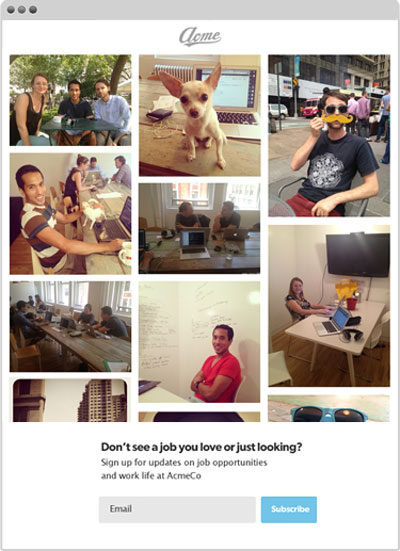
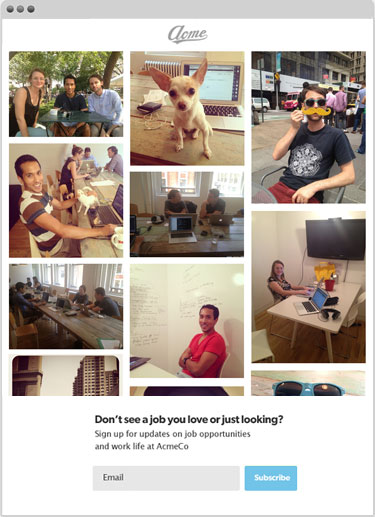
homepage finishing touches

diff --git a/app/assets/stylesheets/home.css.less b/app/assets/stylesheets/home.css.less
@@ -6,7 +6,7 @@
   p {
     font-size: 16px;
     color: #666;
-    line-height: 1.4;
+    line-height: 1.5;
   }
   section {
     .box-sizing(border-box);
@@ -14,11 +14,11 @@
     padding-right: 10px;
   }
   .homepage-top {
-    margin-top: 30px;
+    margin-top: 60px;
     text-align: center;
     padding-top: 80px;
     padding-bottom: 80px;
-    border-bottom: 4px solid #d6f4fe;
+    border-bottom: 4px solid #9ad6fd;
     background-image: image-url('homepage_texture.jpg');
     background-repeat: repeat;
     h1 {
@@ -29,7 +29,7 @@
       font-size: 20px;
       line-height: 1.3;
       font-family: @headings-font-family;
-      color: #d93705;
+      color: #EC430F;
       font-weight: normal;
       margin-top: 30px;
     }
@@ -78,7 +78,7 @@
     }
   }
   .homepage-contact-info__address {
-    color: @grayLight;
+    color: #A77F00;
   }
   .homepage-signup-form__submit-button {
     height: 39px;
@@ -141,12 +141,15 @@
   }
   .homepage-screenshots__captions--third {
     margin-top: 100px;
-    margin-bottom: 30px;
+    margin-bottom: 35px;
+    p {
+      margin-bottom: 0;
+    }
   }
   .homepage-how-we-do, .homepage-screenshots {
     h3 {
       font-size: 30px;
-      line-height: 1;
+      line-height: 1.2;
       font-weight: normal;
       font-family: @headings-font-family;
     }
@@ -186,8 +189,13 @@
       left: -45px;
     }
     .homepage-screenshots__arrow2 {
-      bottom: -40px;
+      bottom: -75px;
       left: -175px;
+    }
+    .homepage-how-we-do--bottom-center {
+      p {
+        padding: 0 150px;
+      }
     }
   }
   @media (max-width: 768px) {
@@ -211,13 +219,6 @@
     .homepage-how-we-do, .homepage-screenshots {
       h3 {
         font-size: 28px;
-      }
-    }
-  }
-  @media (min-width: 769px) {
-    .homepage-top {
-      h2 {
-        padding: 0 200px;
       }
     }
   }
@@ -321,7 +322,7 @@
       padding-top: 20px;
       padding-bottom: 30px;
       h1 {
-        font-size: 27px;
+        font-size: 28px;
         line-height: 1.1;
       }
       h2 {

diff --git a/app/assets/stylesheets/global.css.less b/app/assets/stylesheets/global.css.less
@@ -106,7 +106,6 @@ section {
 .navbar--marketing {
   .box-sizing(border-box);
   border-top: none;
-  border-bottom: 1px solid darken(@grayLighter, 10%);
   .nav-collapse {
     text-align: center;
   }

diff --git a/app/assets/stylesheets/media_query_overrides.css.less b/app/assets/stylesheets/media_query_overrides.css.less
@@ -35,7 +35,7 @@
     padding-right: 5px;
   }
   .content-with-nav {
-    margin-top: 42px;
+    margin-top: 41px;
   }
   .navbar-fixed-top {
     position: fixed;
